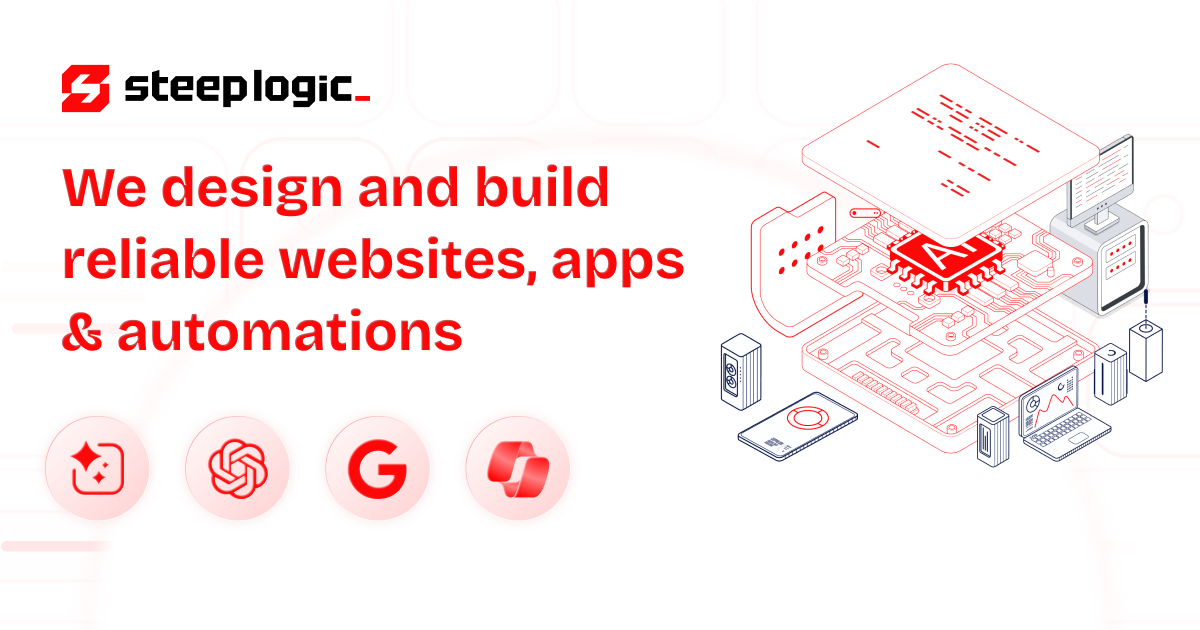
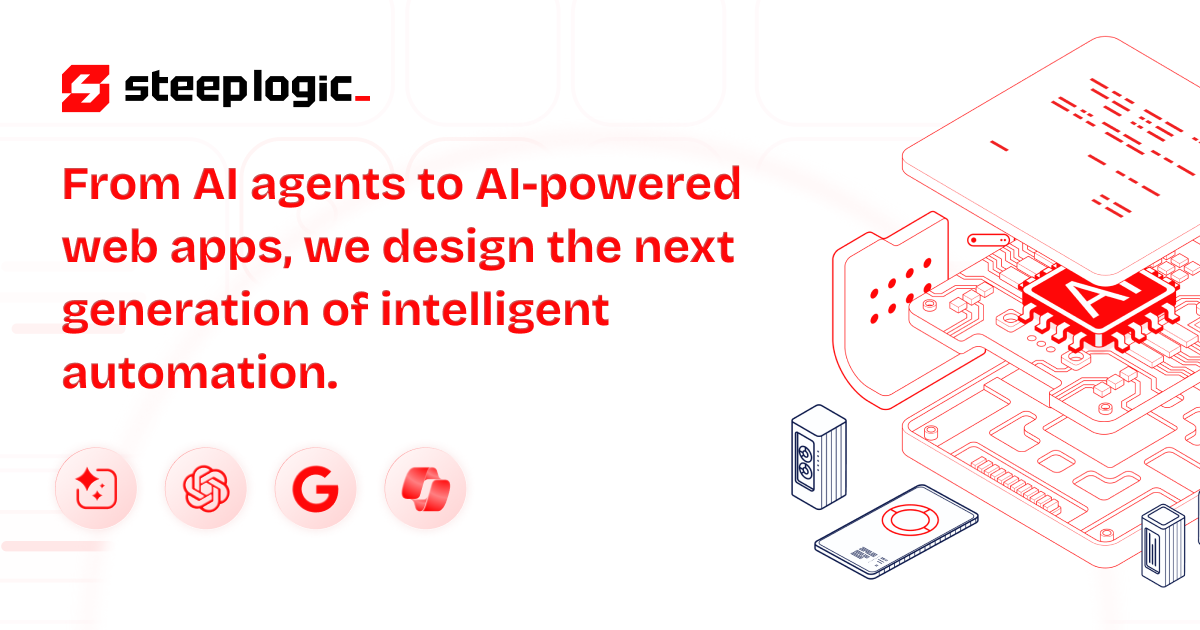
fix

diff --git a/components/seo/structured-data.jsx b/components/seo/structured-data.jsx
@@ -11,7 +11,9 @@ export default function StructuredData({ type = 'website', data = {} }) {
       alternateName: 'SteepLogic',
       url: baseUrl,
       logo: `${baseUrl}/steeplogic.ico`,
-      description: 'We build tools and apps that help your business grow. From AI solutions to custom software development, we turn your ideas into working products that deliver value.',
+      // Updated tagline and expanded AI focus
+      description:
+        'We empower businesses with AI agents and modern software, driving smarter, faster growth. From AI automation and analytics to robust web, mobile, and cloud platforms, we design and ship the tools that streamline operations, accelerate growth, and help your business win.',
       foundingDate: '2025',
       contactPoint: {
         '@type': 'ContactPoint',
@@ -47,12 +49,24 @@ export default function StructuredData({ type = 'website', data = {} }) {
         },
       ],
       serviceType: [
-        'AI & Analytics',
+        'AI Agents & Automation',
+        'AI-powered Chatbots',
+        'AI Analytics & Insights',
+        'GenAI Solutions',
+        'Custom LLM Integrations',
+        'AI for Business Process Automation',
+        'AI for Customer Support',
+        'AI for Sales & Marketing',
         'Product Design & UX',
-        'Web & Mobile Development',
+        'Web Application Development',
+        'Mobile App Development',
         'Cloud & DevOps',
-        'Process Automation',
         'Custom IT Solutions',
+        'Process Automation',
+        'Data Engineering & ML Ops',
+        'AI Integration for Local US Businesses',
+        'AI Integration for Local India Businesses',
+        'Global AI Solutions'
       ],
       offers: {
         '@type': 'Offer',
@@ -69,7 +83,17 @@ export default function StructuredData({ type = 'website', data = {} }) {
         name: 'Steep Logic',
         url: baseUrl,
       },
-      serviceType: 'Software Development',
+      serviceType: [
+        'AI Agents & Automation',
+        'AI Analytics',
+        'Custom LLM Integration',
+        'Web & Mobile Development',
+        'Cloud Solutions',
+        'Process Automation',
+        'AI for Local US',
+        'AI for Local India',
+        'Global AI Solutions'
+      ],
       areaServed: [
         {
           '@type': 'Country',

diff --git a/components/landing/hero.jsx b/components/landing/hero.jsx
@@ -47,7 +47,7 @@ export default function Hero() {
               }}
               className="text-2xl md:text-4xl font-semibold text-gray-900 leading-tight"
             >
-              We help businesses across India, US, and globally use AI and modern software to grow faster & smarter.
+              We empower businesses with AI agents and modern software, driving smarter, faster growth.
             </motion.h1>
 
             <motion.p

diff --git a/components/landing/services.jsx b/components/landing/services.jsx
@@ -16,8 +16,8 @@ const primaryColor = "#ff0708";
 const services = [
   {
     img: ai,
-    title: "AI & Analytics",
-    description: "Smart chatbots and tools that help you make better decisions and save time.",
+    title: "AI Agents",
+    description: "AI agents, smart chatbots, and analytics tools that automate tasks, boost productivity, and help you make better decisions.",
   },
   {
     img: product,
